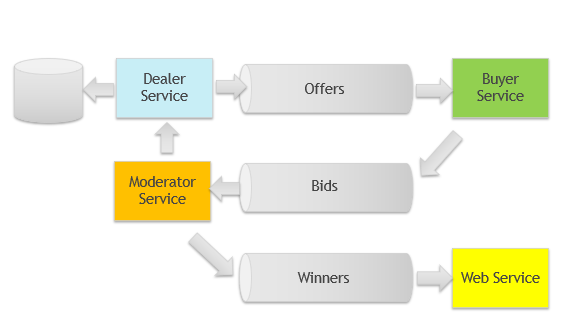
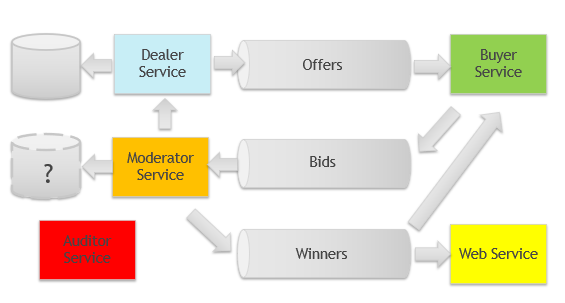
added user stories, updated diagram

diff --git a/README.md b/README.md
@@ -8,26 +8,54 @@ Training project for microservices using:
 ![Bidding Service](./docs/img/bidding.png)
 
 ### Roles and Items 
-- Dealer
-- Buyer
-- Moderator
-- Offer
-- Bid
+#### Roles
+- __Dealer__ issues offers and keeps secret value 
+- __Buyer__ makes bids
+- __Moderator__ defines the winner(s) on the base of the secret value and bidding rules
+- __Auditor/Admin__ makes audit of the logs 
+
+
+#### Items
+- __Offer__ it's an event {offerId, timestamp, expirationTime, price, textDescription}
+- __SecretValue__ it's a correct answer for a given offer (or a number to guess)
+- __Bid__ it's an event {bidId, buyerId, offerId, stake, guessValue}
+
+- __Winner__ maybe we need separate winner event {bidId, offerId, buyerId, isWinner} or just a field isWinner in a Bid
+
+
 
 ### Use cases
 
 ##### 1 Casino
-- Dealer starts a playing session
+- Dealer starts a playing session (offer event)
 - Player makes a bet
-- Moderator decides who is the winner
+- Moderator decides who is the winner(s)
 
 ##### 2 Auction
-- Seller issues an offer
+- Seller (dealer) issues an offer
 - Buyer makes a bid
-- Auctioneer/AuctionManager decides who is the winner
+- Auctioneer/AuctionManager decides who is the winner(s)
 
 ##### 3 Intellectual game
 - Dealer issues a question
 - Player sends an answer
-- Moderator decides who is the winner
+- Moderator decides who is the winner(s)
+
+### User Stories
+
+- As a Buyer I want to log up or login in BIDDING service
+- As a Buyer I want to see current offers and make a bid for the offer of my choice
+- As a Buyer I want to see the current result of the bidding and the overall total result
+
+
+- As a Dealer I want to issue an offer plus secret value for bidding rules and keep the record of all offers
+
+
+- As a Moderator I want to see all the bids and the corresponding secret values, check the bids against bidding rules
+- As a Moderator I want to calculate the total number of bids for a given offer, calculet the number of winners
+- As a Moderator I want to calculate the shares and assign them to the winners
+- As a Moderator I want to notify all the buyers and keep the record of the results
+
+
+- As an Auditor I want to check all the events, offers, and bids in the timeline for at least 2 weeks 
 
